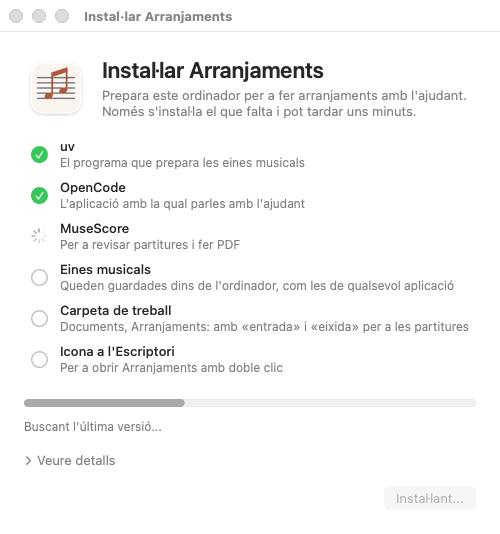
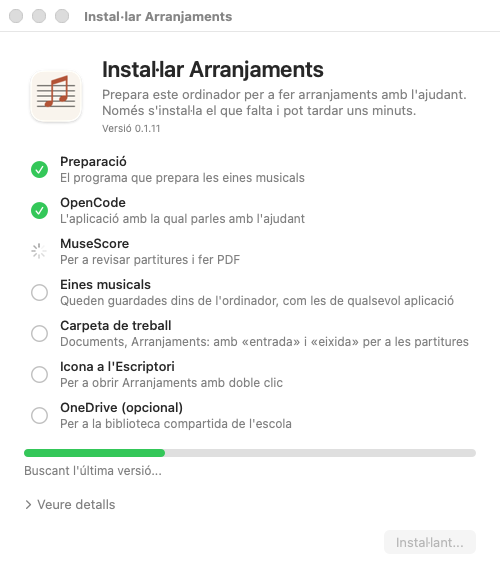
Captures de l'instal·lador renovades (CI) i text del README per a OneDrive i MuseScore [skip ci]

diff --git a/README.md b/README.md
@@ -84,7 +84,7 @@ El mateix de dalt, amb imatges. Les pantalles del sistema (navegador, carpetes, 
 
    ![Pas 5](docs/captures/mac/05-instalant.png)
 
-6. Quan diu «Tot a punt», ja està instal·lat.
+6. Quan diu «Tot a punt», ja està instal·lat. Si no tens OneDrive (opcional, només per a la biblioteca compartida), al final hi ha el botó «Instal·la OneDrive», que obri l'App Store; pots ignorar-lo.
 
    ![Pas 6](docs/captures/mac/06-tot-a-punt.png)
 
@@ -137,7 +137,7 @@ El mateix de dalt, amb imatges. Les pantalles del sistema (navegador, carpetes, 
 
    ![Pas 3](docs/captures/windows/03-smartscreen.png)
 
-4. S'obri l'instal·lador. Prem «Instal·lar» i espera: cada pas es marca quan acaba. Si MuseScore demana permís (finestra blava), prem «Sí».
+4. S'obri l'instal·lador. Prem «Instal·lar» i espera: cada pas es marca quan acaba. Si MuseScore demana permís (finestra blava), prem «Sí». Si l'ordinador no et deixa (és de la feina o del centre), no passa res: l'instal·lador ho marca com a avís, pots obrir Arranjaments igualment i només no podràs fer PDF encara.
 
    ![Pas 4](docs/captures/windows/04-instalant.png)
 
